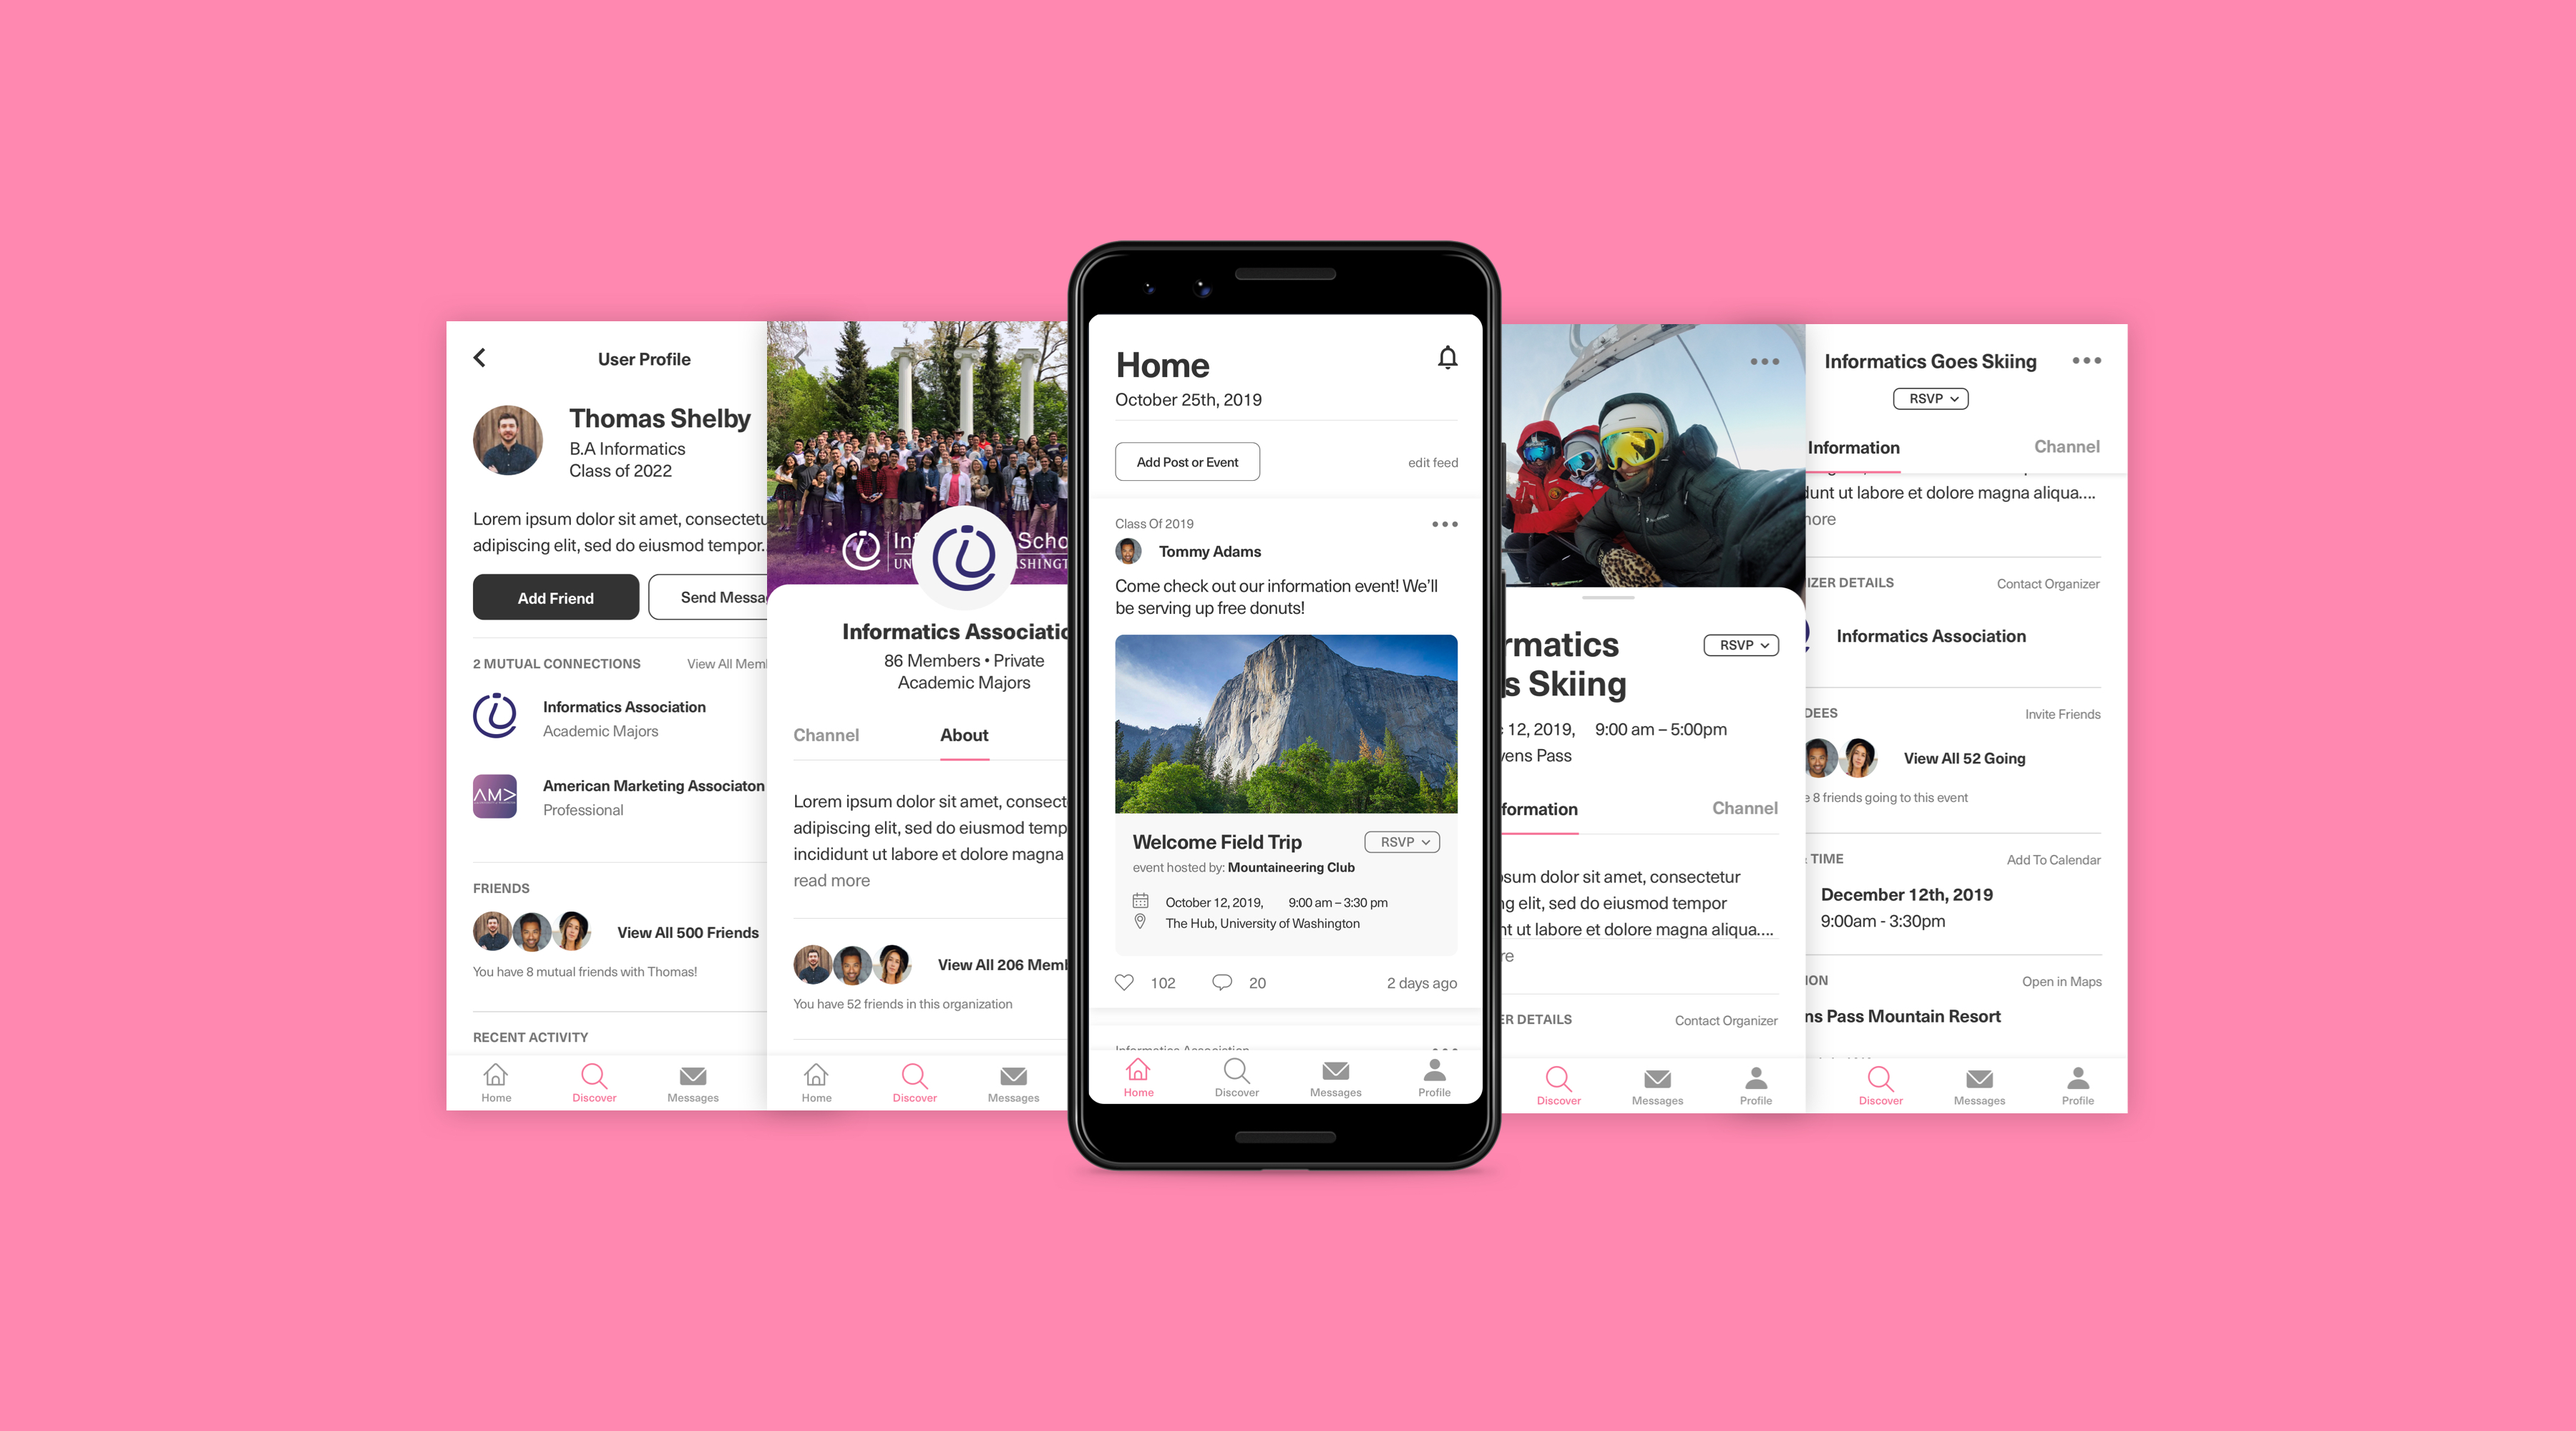
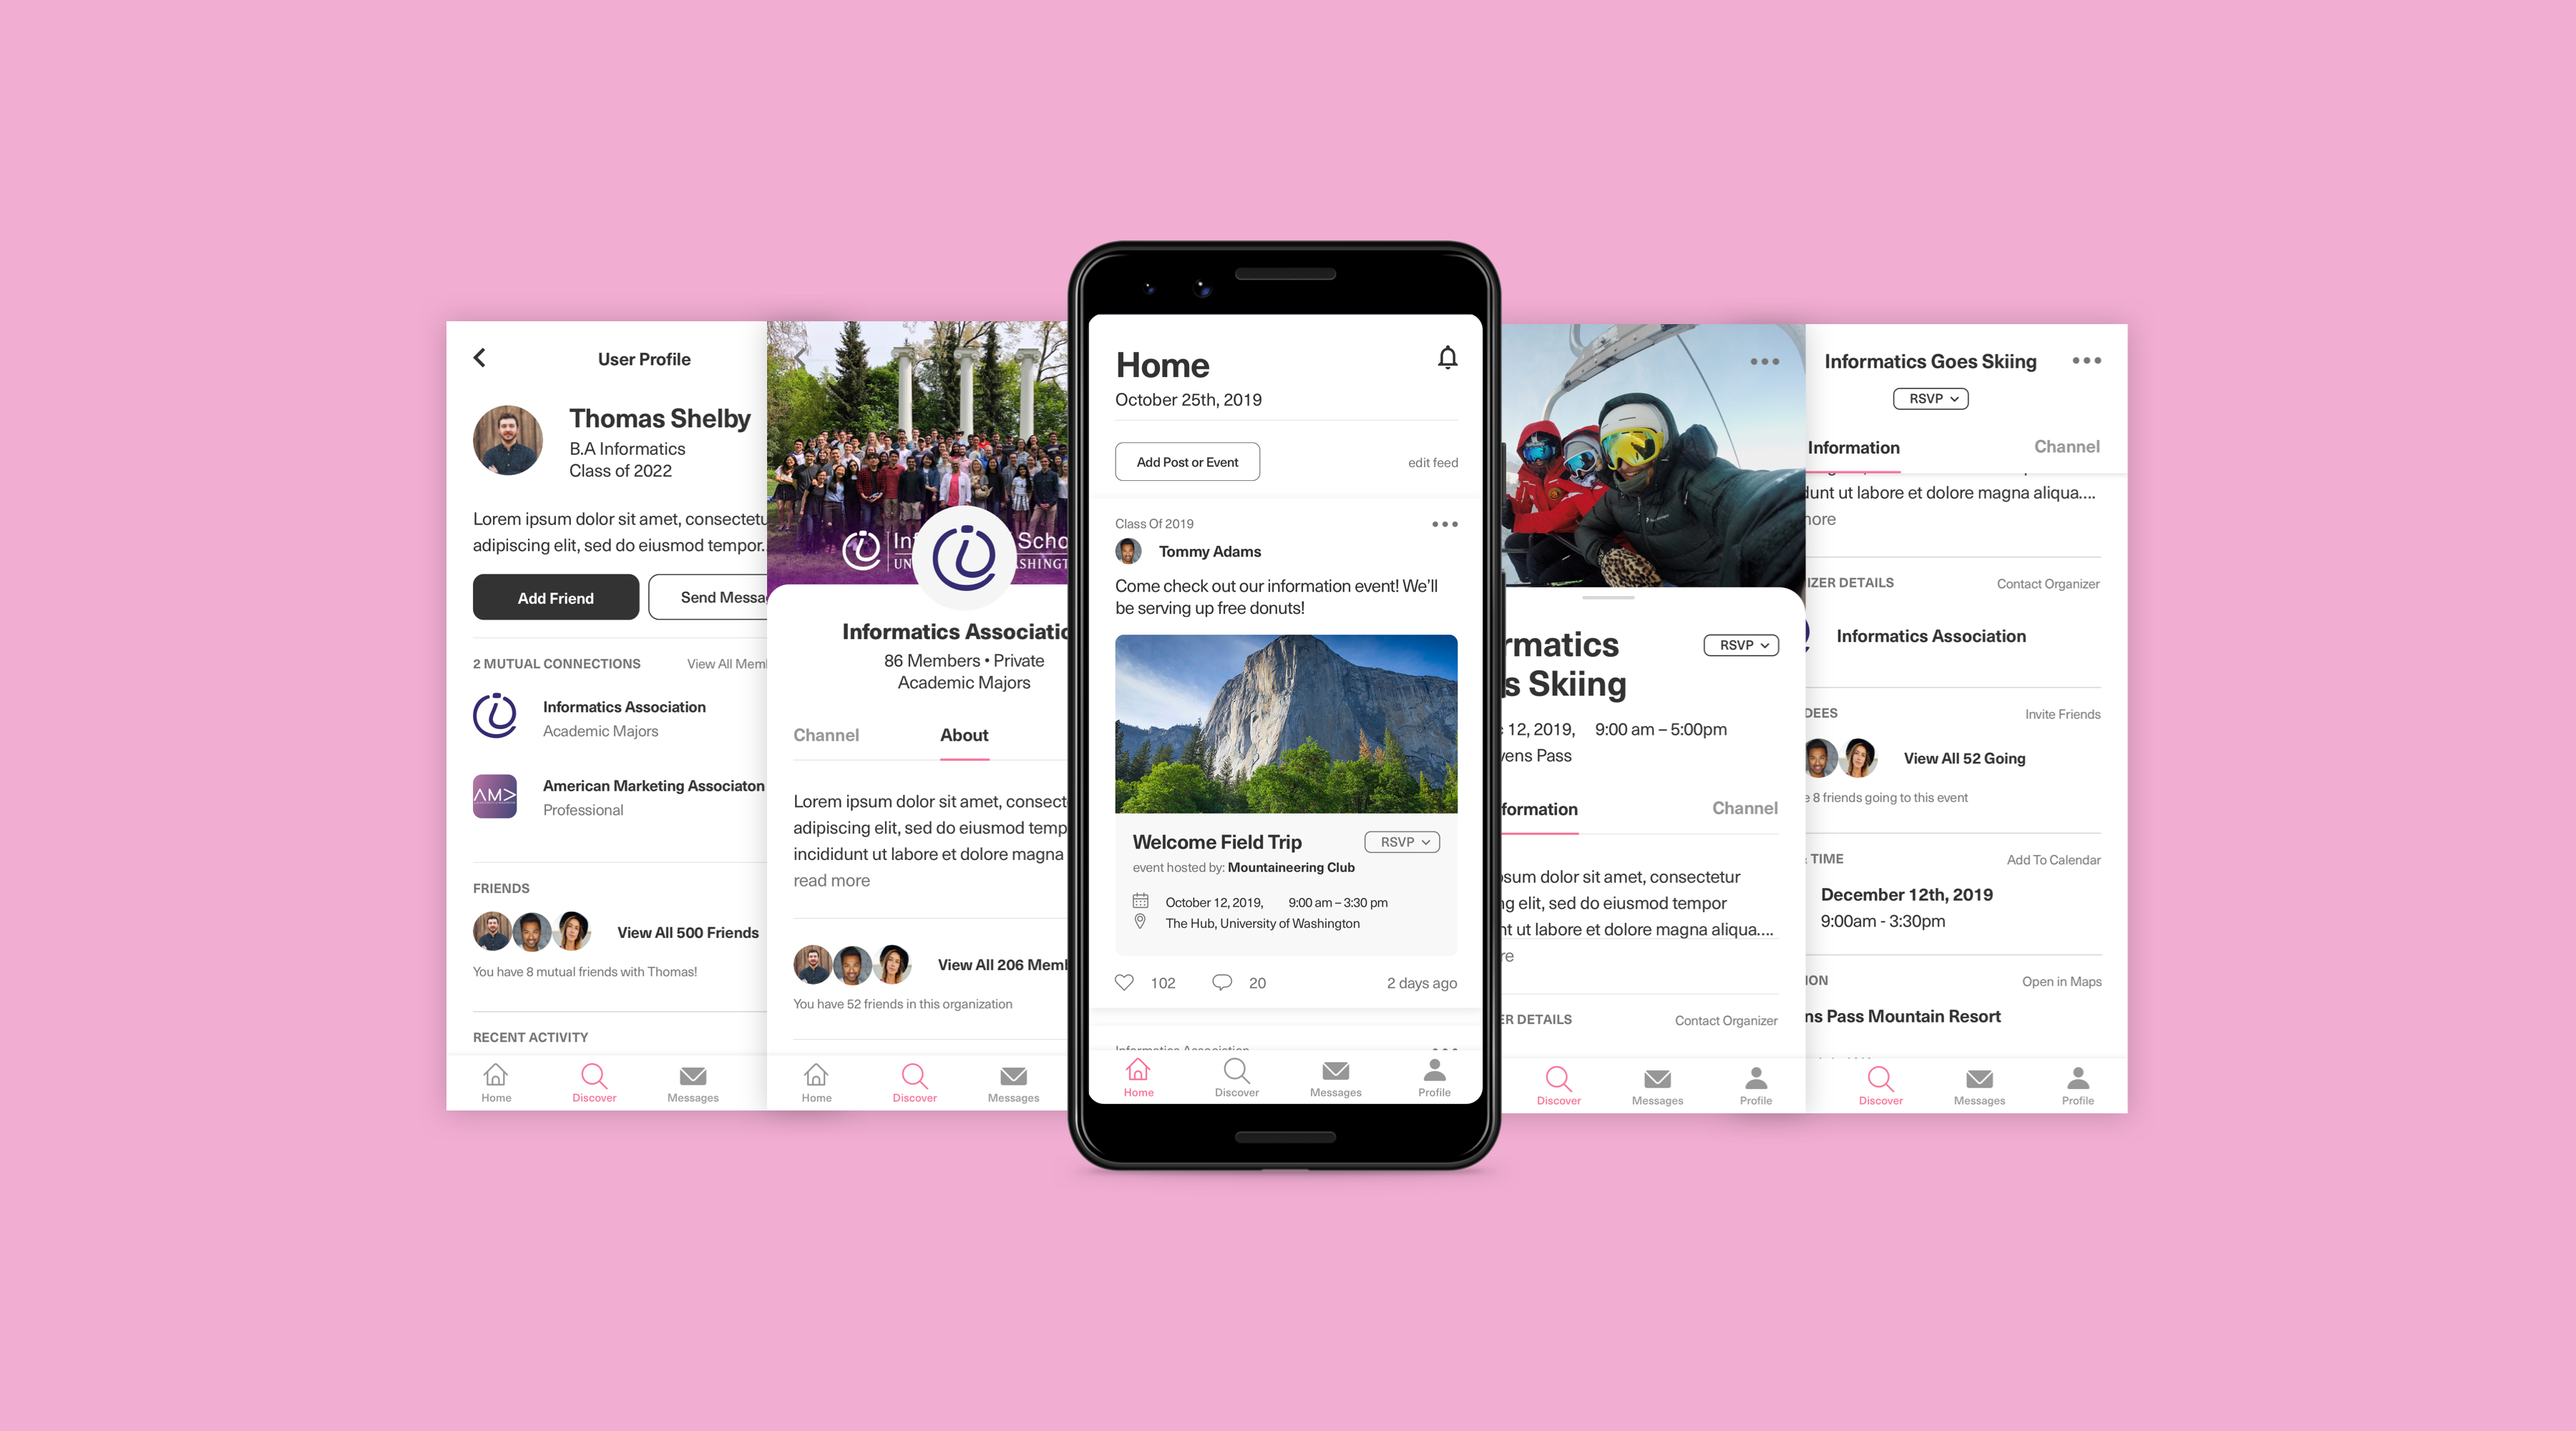
pink is hard

diff --git a/src/pages/pool-2.jsx b/src/pages/pool-2.jsx
@@ -58,6 +58,7 @@ const MobileLink = styled(Link)`
   line-height: 1.8;
   margin-left: 2rem;
   transition: 0.2s;
+  color: #333;
 
 
   :hover {
@@ -532,85 +533,6 @@ export default function Pool() {
         </Col>
       </Container>
     </Wrapper>
-    {/* <Wrapper style={{backgroundColor: "#101010"}}>
-      <Container>
-        <div data-sal="fade" data-sal-delay="00" data-sal-duration="1500" data-sal-easing="ease">
-          <Row style={{marginBottom: "8rem"}}>
-            <Col style={{flex: "1 1 32rem"}}>
-              <SectionTitle style={{color: "#ffffff"}}>Individual Deliverable</SectionTitle>
-            </Col>
-            <Col>
-              <SectionText style={{color: "#fff"}}>
-              As my individual deliverable for this project, I designed a solution for our problem based on <strong style={{fontWeight: "600", color: "#fff"}}>existing technologies that are available today.</strong> I identified excessively lengthy showers as one of the most frivolous uses of water and crafted a design solution for a voice-activated, digitally controlled shower that aims to provide real-time feedback to help users improve their awareness of consumption and make positive changes to habits.
-              </SectionText>
-            </Col>
-          </Row>
-        </div>
-        <div data-sal="fade" data-sal-delay="00" data-sal-duration="1500" data-sal-easing="ease"> 
-          <Row style={{marginBottom: "2rem"}}>
-            <Col style={{flex: "1 1 32rem"}}>
-              <Img fluid={data.Shower.childImageSharp.fluid} />
-            </Col>
-            <Col >
-              <FeatureTitle  style={{color: "#fff"}}>
-              Real time consumption information relayed at point of use.
-              </FeatureTitle>
-              <SectionText style={{color: "#fff"}}>Display in the shower provides real-time feedback of user consumption while control and input can be performed through a voice interface, thereby avoiding the use of wet fingers on a display. The idea is to keep users on track and prevent them from unintentionally engaging in a shower room karaoke session, thereby losing track of time and awareness of consumption.</SectionText>
-            </Col>
-          </Row>
-        </div>
-        <div data-sal="fade" data-sal-delay="100" data-sal-duration="1500" data-sal-easing="ease">
-        <Row style={{marginBottom: "2rem"}}>
-          <Col style={{flex: "1 1 32rem"}}>
-            <VideoWrapper>
-              <Video muted autoPlay loop>
-                <source src={Animated} type="video/mp4" />
-                Sorry, your browser doesn't support embedded videos.
-              </Video>
-            </VideoWrapper>
-          </Col>
-          <Col>
-            <FeatureTitle  style={{color: "#fff"}}>
-            Key information and statistics provided at a glance.
-            </FeatureTitle>
-            <SectionText style={{color: "#fff"}}>
-              Set a timer for the shower and watch the water level on the display fall as time runs down. 
-              Water level on display also affords an easier visual reference for skimability. Also helpful for users who may struggle to read text or numbers without the aid of corrective lenses in a bathroom environment.
-          </SectionText>
-          </Col>
-        </Row>
-        </div>
-        <div data-sal="fade" data-sal-delay="200" data-sal-duration="1500" data-sal-easing="ease">
-        <Row style={{marginBotton: "2rem"}}>
-          <Col style={{flex: "1 1 32rem"}}>
-            <Img fluid={data.PatrickFull.childImageSharp.fluid} />
-          </Col>
-          <Col>
-            <FeatureTitle  style={{color: "#fff"}}>
-              Mobile interface to view trends and adjust settings.
-            </FeatureTitle>
-            <SectionText style={{color: "#fff"}}>
-              Track usage statistics and trends, as well as establish predefined settings for the shower with mobile based interface. No need to meddle with the finer details whilst in the shower when the option exists to set in on a mobile devic beforehand.
-          </SectionText>
-          </Col>
-        </Row>
-        </div>
-        <div data-sal="fade" data-sal-delay="300" data-sal-duration="1500" data-sal-easing="ease">
-          <Col>
-            <SectionText style={{margin: "2rem auto", color: "#fff"}} >
-              As part of my deliverables for this segment of the project, I made a video that goes through the details of my design solution.
-            </SectionText>
-          </Col>
-          <div style={{maxWidth: "640px", margin: "0 auto"}}>
-            <VideoWrapper>
-              <Frame 
-              src="https://www.youtube.com/embed/HbaYwjYpr-Q"   
-              />
-            </VideoWrapper>
-          </div>
-        </div>
-      </Container>
-    </Wrapper> */}
     <Individual />
     <Wrapper style={{backgroundColor: "#000"}}>
       <Container>

diff --git a/src/components/g-challenge/overview.jsx b/src/components/g-challenge/overview.jsx
@@ -74,7 +74,7 @@ export default function Overview(props) {
           }
         }
       }
-      Hero: file(relativePath: {eq: "g-hero-image.png"}) {
+      Hero: file(relativePath: {eq: "g-hero-image.jpg"}) {
         childImageSharp {
           fluid (maxWidth: 3200) {
             ...GatsbyImageSharpFluid

diff --git a/src/components/pool-2/pool-individual.jsx b/src/components/pool-2/pool-individual.jsx
@@ -90,8 +90,6 @@ const VideoWrapper = styled.div`
   width: 100%;
   padding-top: 56.25%;
   padding-top: 76%;
-  // padding-top: 0;
-  // margin-top: 3.5rem;
 `
 
 const Video = styled.video`
